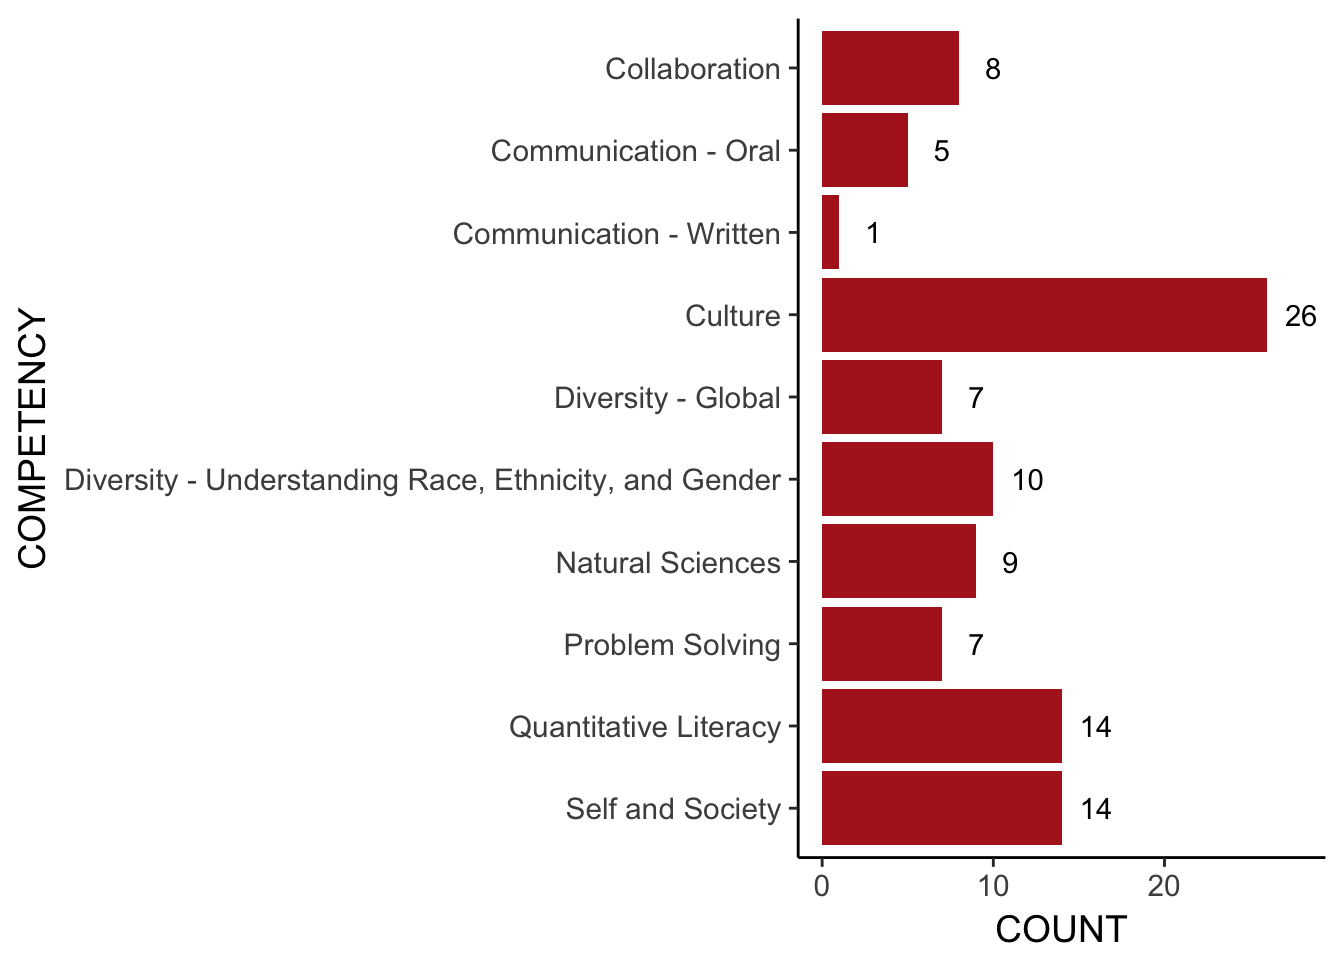
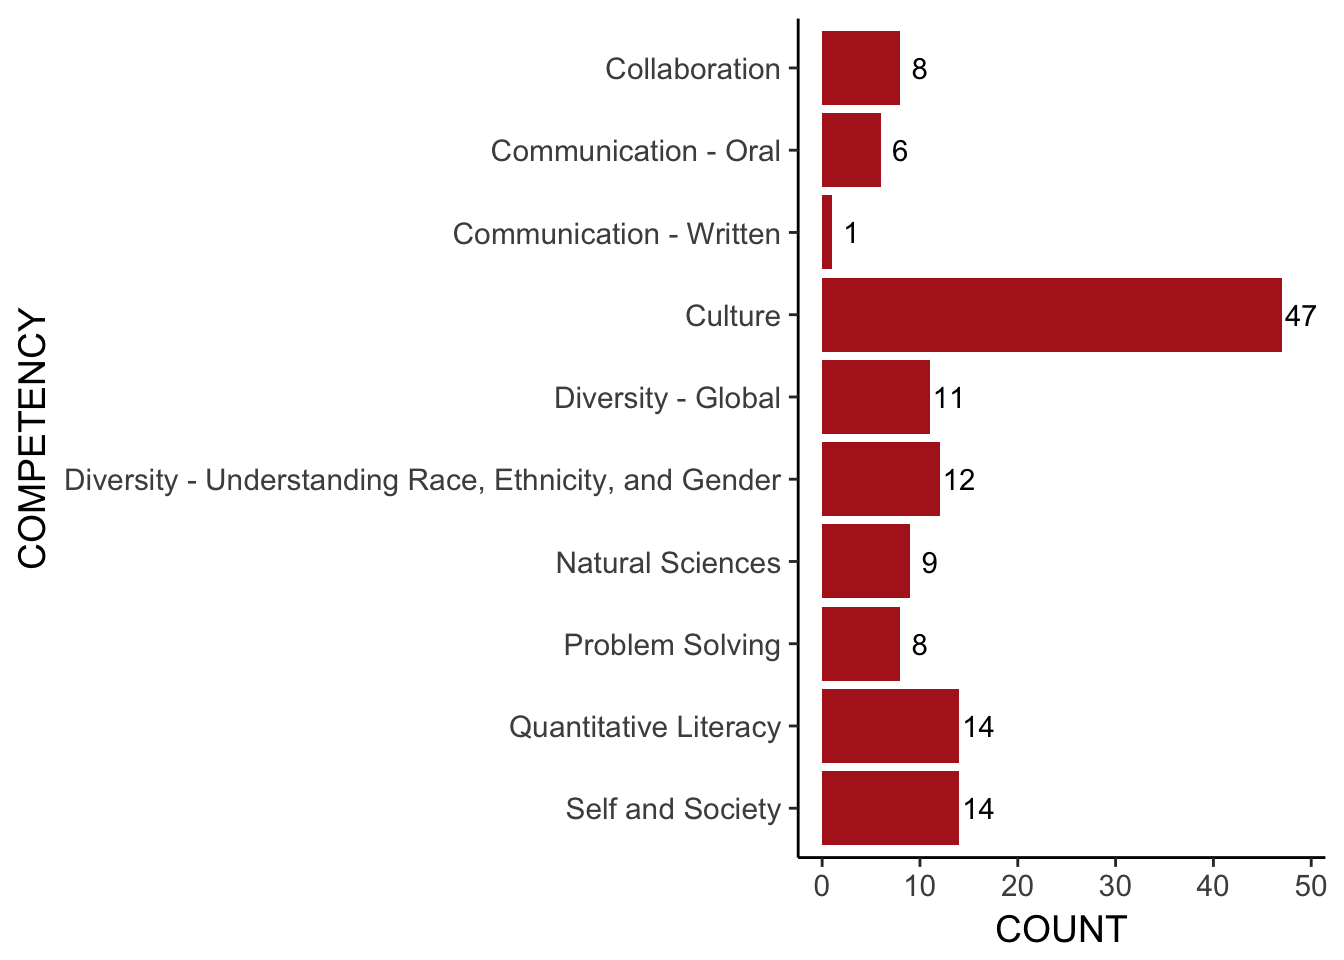
As of the deadline for submissions

diff --git a/docs/Report-1801.html b/docs/Report-1801.html
@@ -163,7 +163,7 @@
 </div>
 <div id="results" class="section level1 unnumbered">
 <h1>Results and Discussion</h1>
-<p>A total of 101 registrations have been completed as of March 21, 2018. This represents the efforts of 46 faculty, and includes a total of 72 different courses. The distribution of the registrations between the eight core competencies is shown in figure <a href="#fig:plotByCompetency">1</a>.</p>
+<p>A total of 130 registrations have been completed as of March 23, 2018. This represents the efforts of 57 faculty, and includes a total of 90 different courses. The distribution of the registrations between the eight core competencies is shown in figure <a href="#fig:plotByCompetency">1</a>.</p>
 <div class="figure"><span id="fig:plotByCompetency"></span>
 <img src="Report-1801_files/figure-html/plotByCompetency-1.png" alt="Distribution of course registrations by core competency." width="672" />
 <p class="caption">
@@ -171,11 +171,11 @@ Figure 1: Distribution of course registrations by core competency.
 </p>
 </div>
 <ul>
-<li>A total of 34 exams were registered (33.7%).<br />
+<li>A total of 46 exams were registered (35.4%).<br />
 </li>
-<li>A total of 55 student products were registered (54.5%).<br />
+<li>A total of 68 student products were registered (52.3%).<br />
 </li>
-<li>A total of 12 student performances were registered (11.9%).</li>
+<li>A total of 16 student performances were registered (12.3%).</li>
 </ul>
 <div class="figure"><span id="fig:plotByMeasure"></span>
 <img src="Report-1801_files/figure-html/plotByMeasure-1.png" alt="Distribution of course registrations by standardized measure." width="672" />
